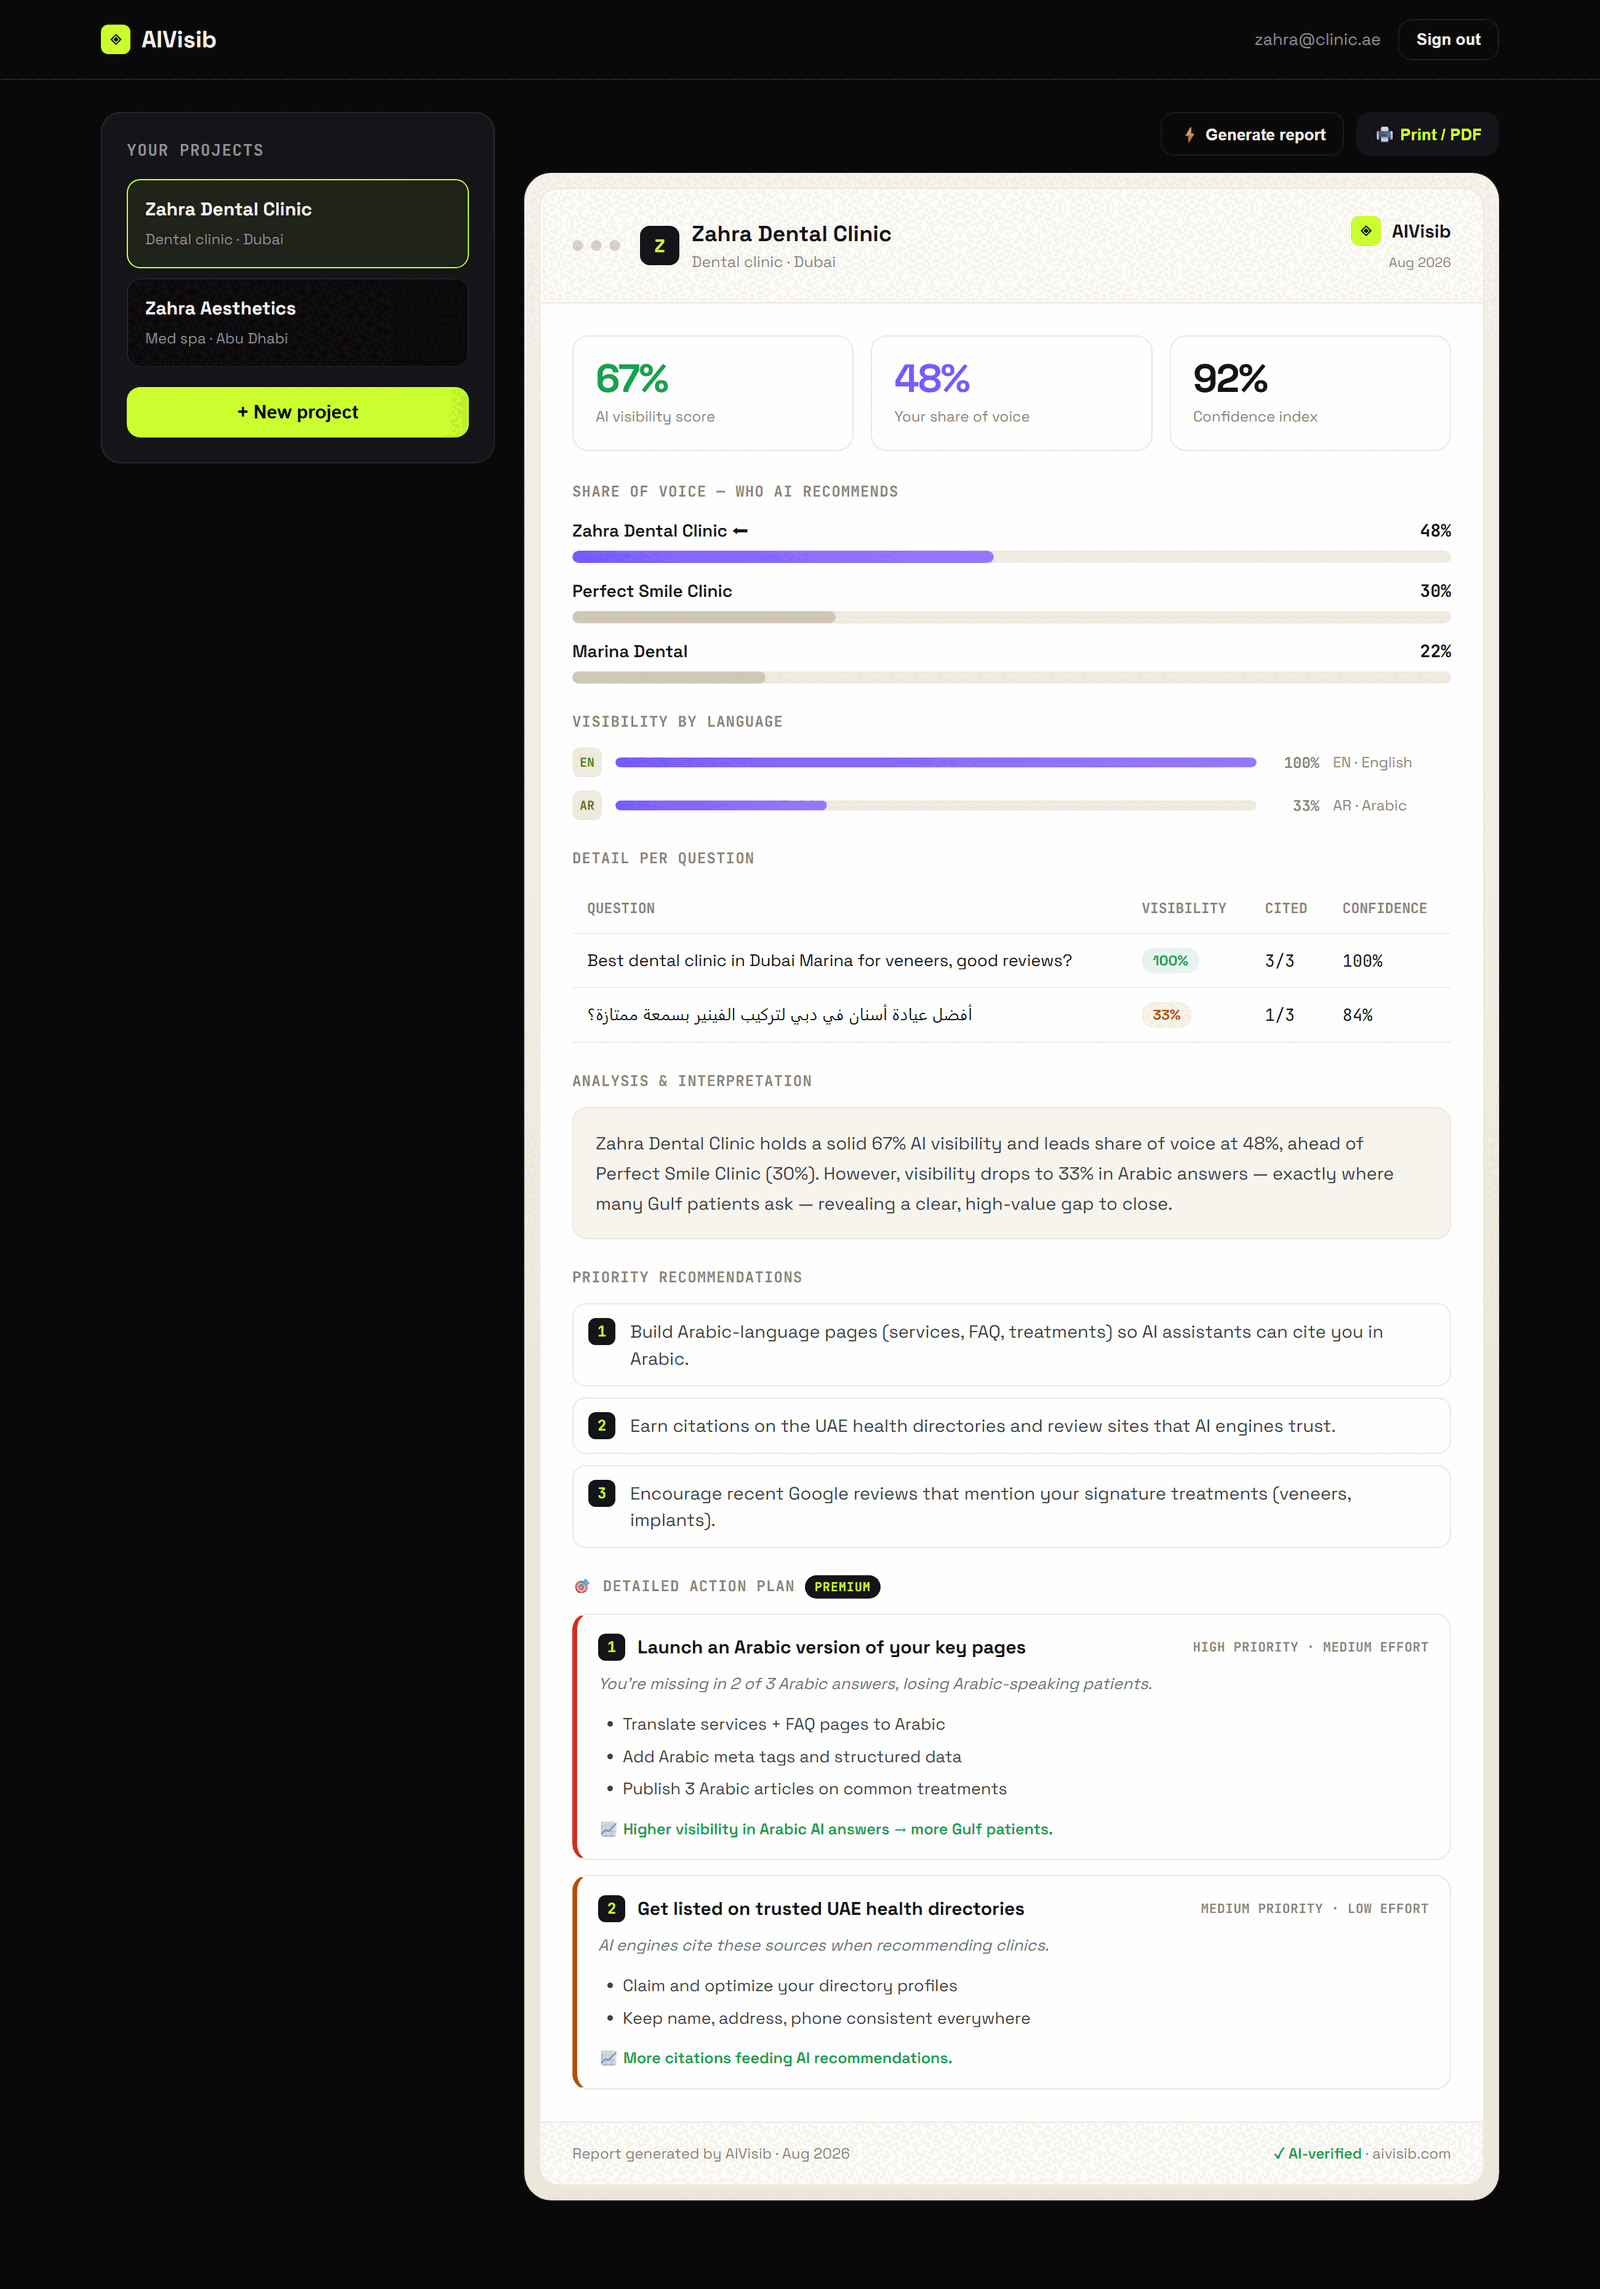
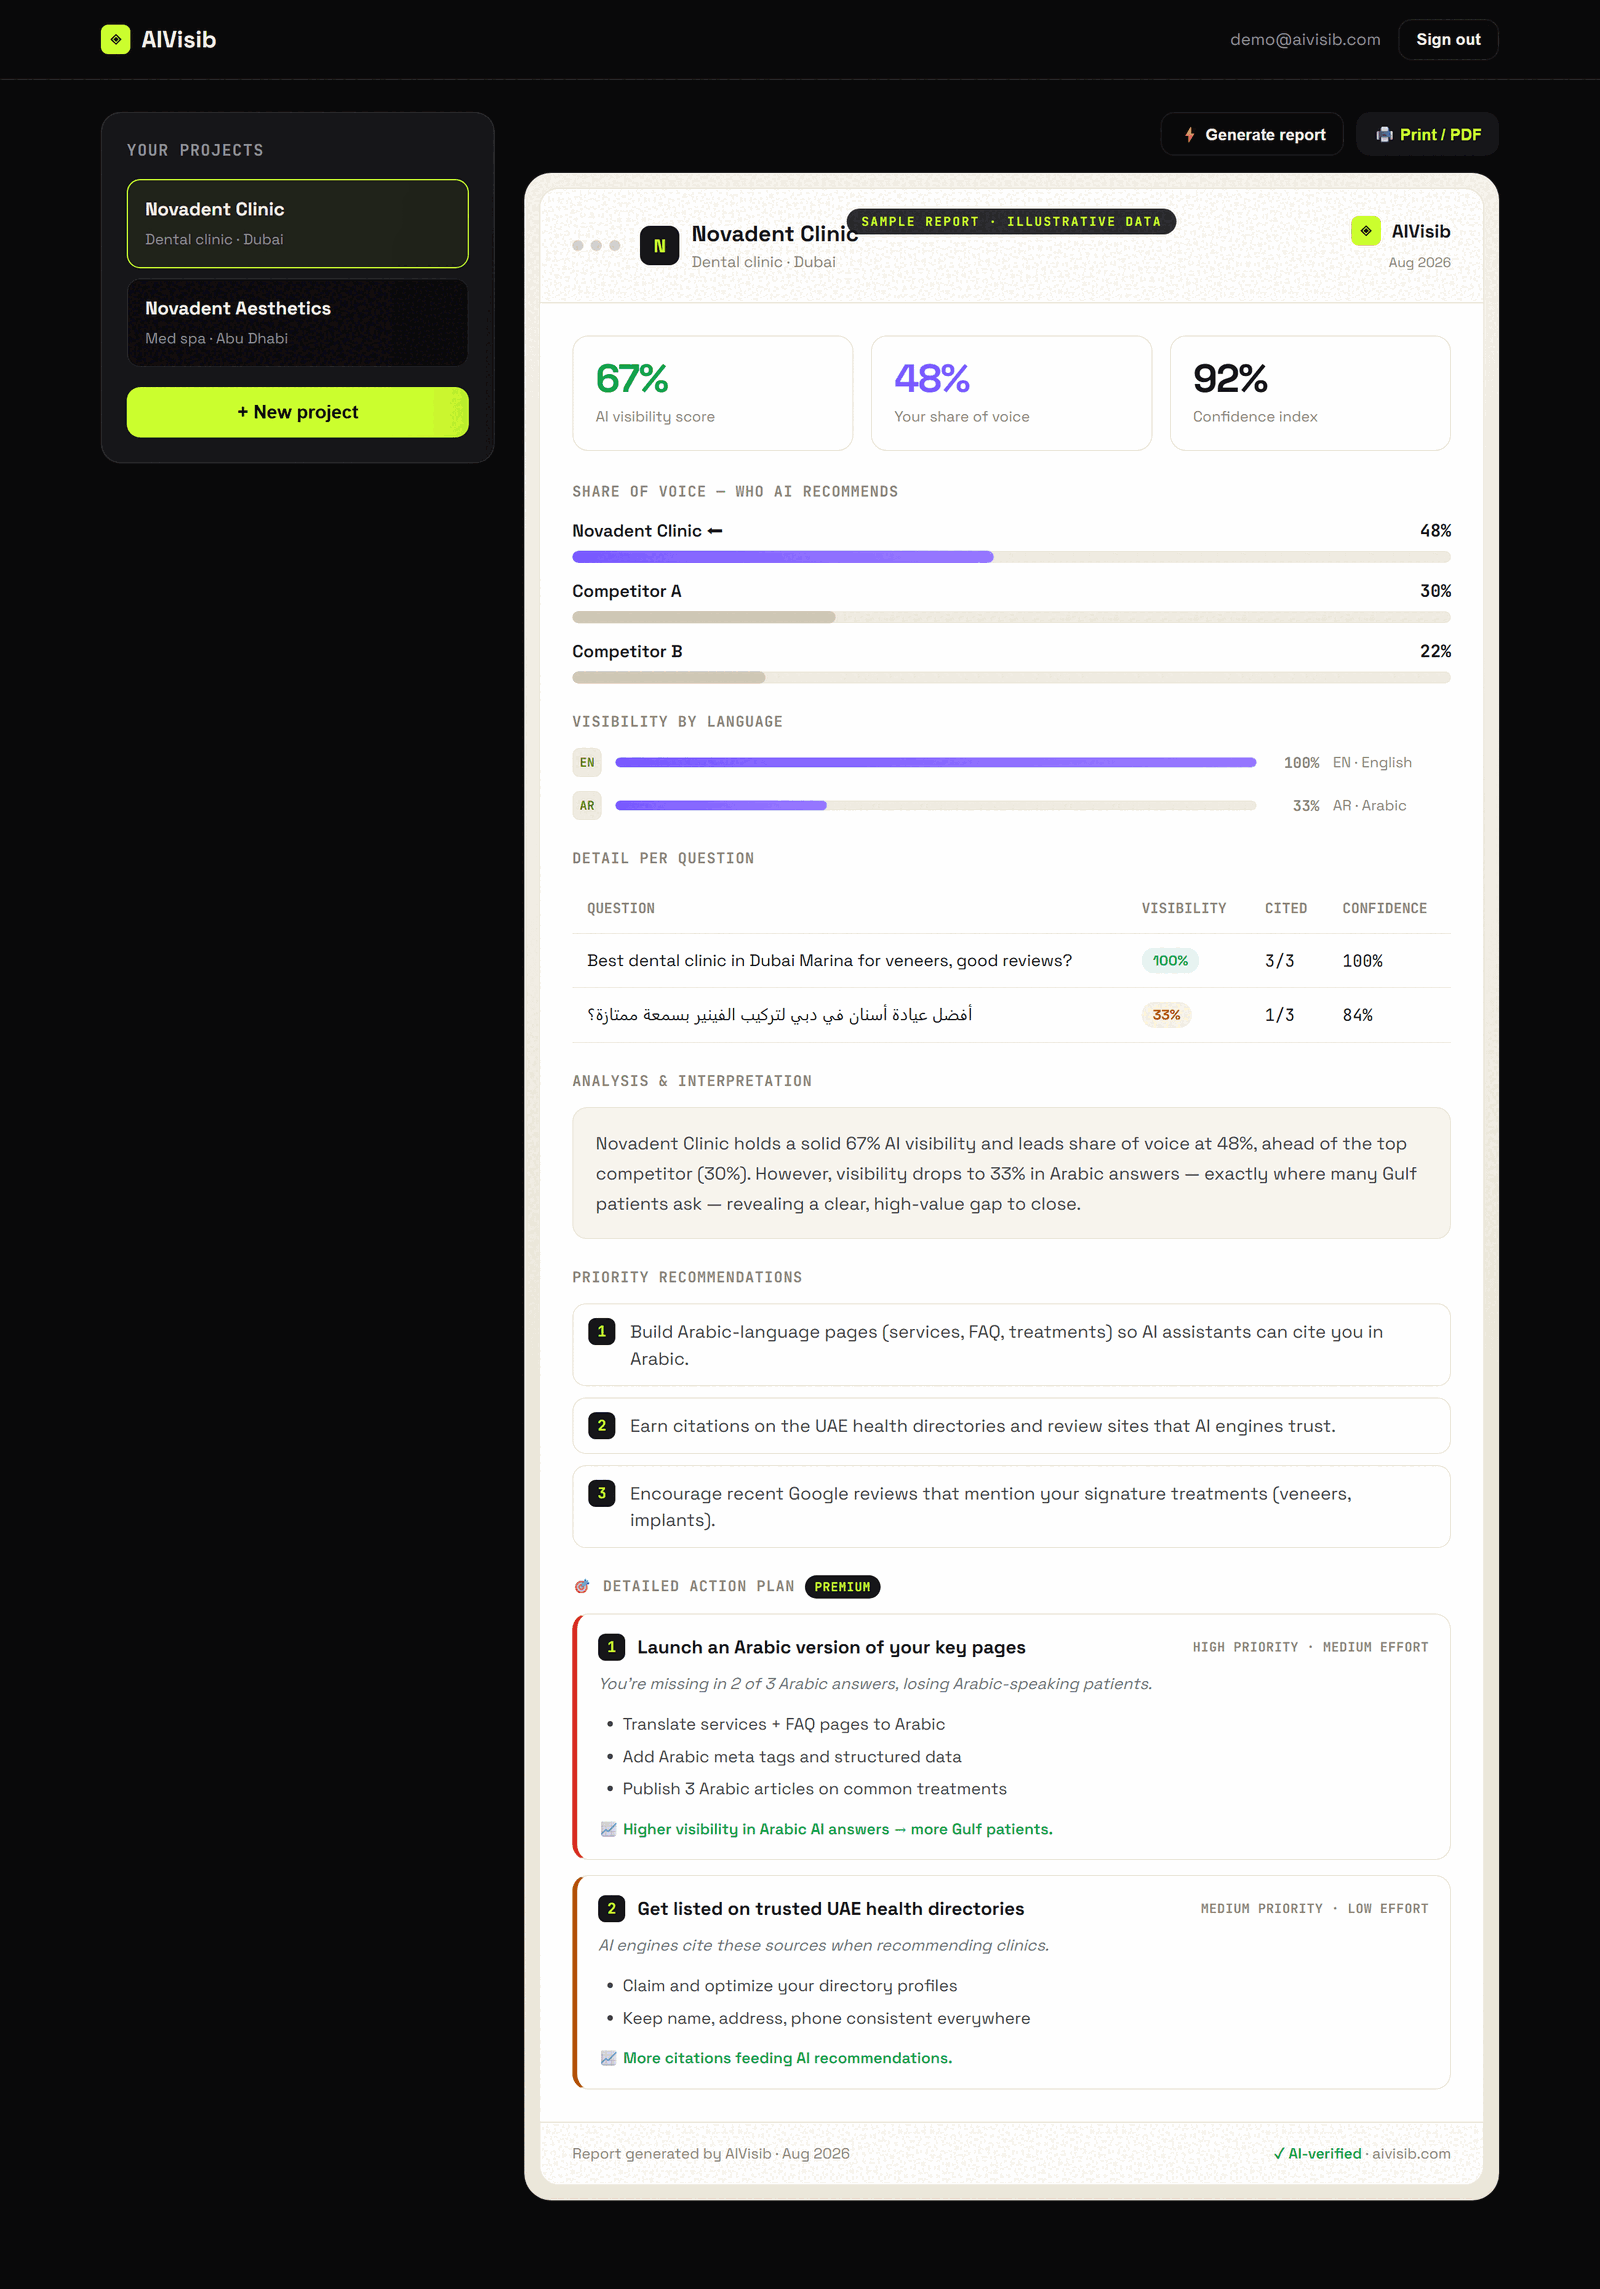
Capture: noms fictifs + badge SAMPLE + mention 'données fictives' (sécurité juridique)

diff --git a/index.html b/index.html
@@ -454,7 +454,7 @@ body.rtl .shotcap{font-family:'Cairo',sans-serif}
 <!-- REAL REPORT SCREENSHOT -->
 <section class="s" id="realreport" style="padding-top:20px"><div class="wrap">
   <div class="head"><div class="kicker"><s></s><span data-i="rr_k"></span></div><h2 data-i="rr_t"></h2><p data-i="rr_p"></p></div>
-  <div class="shotframe rv"><img src="/dashboard-preview.png" width="1600" height="2289" loading="lazy" alt="AIVisib dashboard showing a real AI-visibility report for a dental clinic in Dubai: visibility score, share of voice, per-language visibility, analysis and action plan."></div>
+  <div class="shotframe rv"><img src="/dashboard-preview.png" width="1600" height="2289" loading="lazy" alt="Illustrative sample of the AIVisib dashboard: an AI-visibility report with score, share of voice, per-language visibility, analysis and a prioritized action plan (fictional data)."></div>
   <div class="shotcap" data-i="rr_c"></div>
 </div></section>
 
@@ -556,7 +556,7 @@ rp_k:"Your report",rp_t:"Exactly what you get",rp_p:"Not just numbers — a clea
 rp1t:"A visibility score",rp1p:"Your share of voice against rivals, per AI engine and per language.",
 rp2t:"Plain-language interpretation",rp2p:"“You dominate in English but you're invisible in Arabic — a gap worth closing.”",
 rp3t:"A prioritized action plan",rp3p:"Concrete actions ranked by impact and effort, so AI recommends you more often.",
-rr_k:"The real thing",rr_t:"This is the report you actually get.",rr_p:"Not a mockup — the real AIVisib dashboard: visibility score, share of voice, per-language visibility, plain-language analysis and a prioritized action plan.",rr_c:"Example — dental clinic, Dubai",
+rr_k:"The real thing",rr_t:"This is the report you actually get.",rr_p:"The actual AIVisib dashboard: visibility score, share of voice, per-language visibility, plain-language analysis and a prioritized action plan.",rr_c:"Illustrative sample · fictional data",
 f_k:"What's inside",f_t:"Everything you need. Nothing you'll never open.",f_p:"The complete AI-visibility toolkit, for a fraction of what the big platforms charge.",
 f1t:"Arabic. Actually.",f1p:"Your Gulf customers ask AI in Arabic — and every English-only tool is blind to those answers. We test real Arabic prompts. Nobody else does.",
 f2t:"Competitor share of voice",f2p:"See precisely who gets recommended instead of you — per question, per engine, per language.",
@@ -603,7 +603,7 @@ rp_k:"Ton rapport",rp_t:"Exactement ce que tu reçois",rp_p:"Pas juste des chiff
 rp1t:"Un score de visibilité",rp1p:"Ta part de voix face à tes concurrents, par moteur IA et par langue.",
 rp2t:"Une interprétation en clair",rp2p:"« Tu domines en anglais mais tu es invisible en arabe — un manque à combler. »",
 rp3t:"Un plan d'action priorisé",rp3p:"Des actions concrètes classées par impact et effort, pour être recommandé plus souvent.",
-rr_k:"Le vrai produit",rr_t:"Voici le rapport que tu reçois vraiment.",rr_p:"Pas une maquette — le vrai tableau de bord AIVisib : score de visibilité, part de voix, visibilité par langue, analyse en clair et plan d'action priorisé.",rr_c:"Exemple — clinique dentaire, Dubaï",
+rr_k:"Le vrai produit",rr_t:"Voici le rapport que tu reçois vraiment.",rr_p:"Le vrai tableau de bord AIVisib : score de visibilité, part de voix, visibilité par langue, analyse en clair et plan d'action priorisé.",rr_c:"Exemple illustratif · données fictives",
 f_k:"Ce qu'il y a dedans",f_t:"Tout le nécessaire. Rien d'inutile.",f_p:"La boîte à outils complète de visibilité IA, à une fraction du prix des grandes plateformes.",
 f1t:"L'arabe. Pour de vrai.",f1p:"Vos clients du Golfe interrogent l'IA en arabe — et tous les outils anglophones sont aveugles sur ces réponses. Nous testons de vrais prompts arabes. Personne d'autre ne le fait.",
 f2t:"Part de voix concurrentielle",f2p:"Voyez précisément qui est recommandé à votre place — par question, par moteur, par langue.",
@@ -650,7 +650,7 @@ rp_k:"تقريرك",rp_t:"بالضبط ما تحصل عليه",rp_p:"ليست م
 rp1t:"درجة ظهور واضحة",rp1p:"حصتك من الصوت مقابل منافسيك، لكل محرك ذكاء اصطناعي ولكل لغة.",
 rp2t:"تفسير بلغة بسيطة",rp2p:"«أنت متصدّر بالإنجليزية لكنك غير مرئي بالعربية — فجوة تستحق المعالجة.»",
 rp3t:"خطة عمل حسب الأولوية",rp3p:"إجراءات ملموسة مرتبة حسب الأثر والجهد، لتُوصي بك المحركات أكثر.",
-rr_k:"المنتج الحقيقي",rr_t:"هذا هو التقرير الذي تحصل عليه فعلاً.",rr_p:"ليست واجهة تجريبية — لوحة تحكم AIVisib الحقيقية: درجة الظهور، حصة الصوت، الظهور حسب اللغة، تحليل واضح وخطة عمل حسب الأولوية.",rr_c:"مثال — عيادة أسنان، دبي",
+rr_k:"المنتج الحقيقي",rr_t:"هذا هو التقرير الذي تحصل عليه فعلاً.",rr_p:"لوحة تحكم AIVisib الحقيقية: درجة الظهور، حصة الصوت، الظهور حسب اللغة، تحليل واضح وخطة عمل حسب الأولوية.",rr_c:"مثال توضيحي · بيانات افتراضية",
 f_k:"ما بداخلها",f_t:"كل ما تحتاجه لتتصدّر في الذكاء الاصطناعي.",f_p:"مجموعة أدوات كاملة لقياس وتحسين تقييمك، بواجهة عربية بسيطة وواضحة.",
 f1t:"العربية. فعلياً.",f1p:"عملاؤك في الخليج يسألون الذكاء الاصطناعي بالعربية — وكل الأدوات الإنجليزية عمياء عن تلك الإجابات. نحن نختبر أسئلة عربية حقيقية. لا أحد غيرنا يفعل ذلك.",
 f2t:"نصيبك من التوصيات مقابل المنافسين",f2p:"شاهد بدقة من يُوصى به بدلاً منك — لكل سؤال، ولكل محرك، ولكل لغة.",
